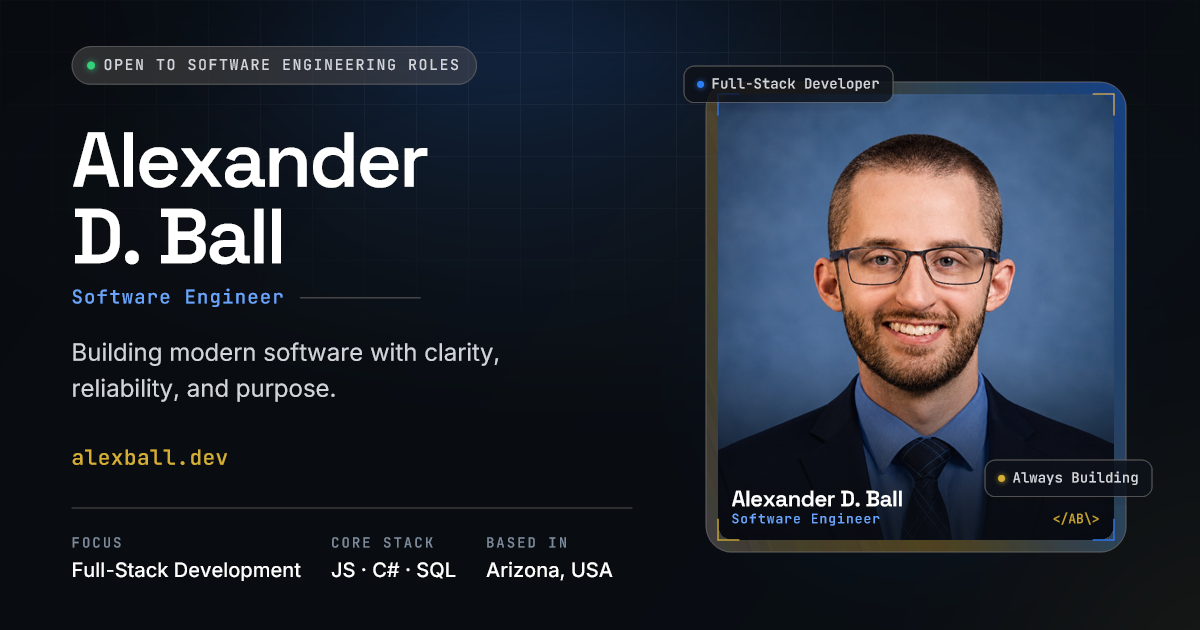
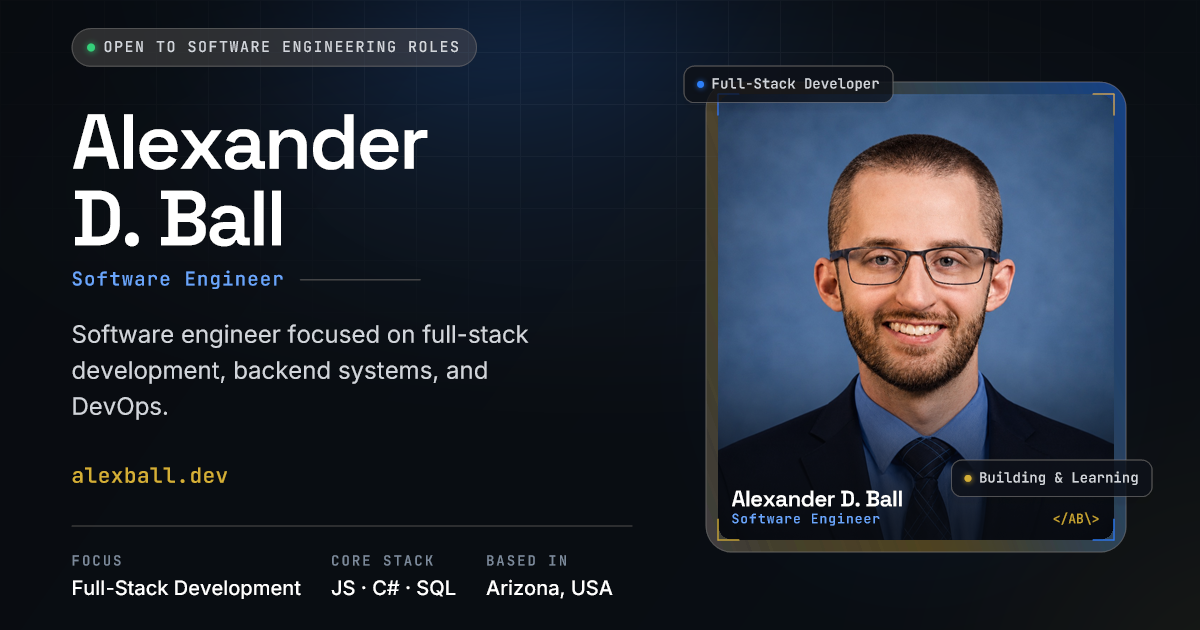
Fix text throught the entire site and wherever text is share related to it

diff --git a/src/data/siteStrings.js b/src/data/siteStrings.js
@@ -9,14 +9,14 @@ export const STR = {
       stack_label: 'Core Stack', stack_val: 'JS · C# · SQL',
       based_label: 'Based In',
       cta_contact: 'Contact Me', cta_projects: 'View Projects',
-      chip1: 'Full-Stack Developer', chip2: 'Always Building',
+      chip1: 'Full-Stack Developer', chip2: 'Building & Learning',
     },
-    snapshot:   { title: 'The fundamentals, at a glance', sub: 'A quick read on where I am — measurable, honest, and growing.' },
-    about:      { title: 'Engineer first — and a few things more', sub: 'The focus is software engineering. The rest is what makes the engineer.' },
+    snapshot:   { title: "Where I'm at right now", sub: 'A quick snapshot of my degree progress, experience, projects, and stack.' },
+    about:      { title: 'A little more about me', sub: 'Software is what I do. These are some of the other things that shape how I work.' },
     stack:      { title: 'Tools I reach for', sub: 'Languages, frameworks, and tools I currently work with.', looking_ahead: 'Looking Ahead', cloud_tools: 'Cloud & Infrastructure Tools' },
     projects: {
-      title: "Three things I'm proud of", sub: 'Selected work that shows how I think, build, and ship. More in the archive below.',
-      live_demo: 'Live Demo', source: 'Source', case_study: 'Case Study',
+      title: "Three things I'm proud of", sub: "A few projects I've built and what I learned from them.",
+      live_demo: 'Live Demo', source: 'Source', case_study: 'Project Details',
       placeholder_badge: 'Placeholder', coming_soon: 'Details coming soon', project_shot: 'project shot',
       placeholder_title: 'Project Title', placeholder_tagline: 'One-line project summary',
       placeholder_desc: 'A short description of the problem this project solves, the approach taken, and the result will go here.',
@@ -24,10 +24,10 @@ export const STR = {
       archive_title: 'Project Archive', all_repos: 'All repositories',
     },
     github: {
-      title: 'Code, consistently', sub: 'Live profile and recent work — credibility you can verify.',
+      title: 'Recent GitHub Activity', sub: 'Recent repositories, contributions, and activity straight from GitHub.',
       follow: 'Follow', updated: 'Updated recently', less: 'Less', more: 'More',
-      blurb: 'Every project on this site links back to source. I believe credibility is something you should be able to verify — not just read.',
-      explore: 'Explore the profile',
+      blurb: 'Want to dig into the code? My projects and recent work are public on GitHub.',
+      explore: 'View GitHub Profile',
       statPublicRepos: 'Public Repos', statStars: 'Stars Earned', statForks: 'Total Forks', statFollowers: 'Followers',
       contributionsCaption: 'contributions in the last 6 months',
       recentActivityTitle: 'Recent Activity',
@@ -38,32 +38,32 @@ export const STR = {
       loading: 'Loading live activity…',
       cellContribution: 'contribution', cellContributions: 'contributions', cellOn: 'on',
     },
-    experience: { title: 'A track record in progress', sub: 'Two parallel paths — professional experience and academic foundation.', career: 'Career', education: 'Education', current: 'Current' },
-    resume:     { title: 'The one-page version', sub: 'Read it here or take it with you.', download: 'Download Resume', open_full: 'Open Full Page' },
+    experience: { title: 'Experience & Education', sub: "My professional software development experience so far, along with the degree I'm currently working on.", career: 'Career', education: 'Education', current: 'Current' },
+    resume:     { title: 'Resume', sub: 'View my current resume here or download a copy.', download: 'Download Resume', open_full: 'Open Full Page' },
     contact: {
-      heading1: "Let's build", heading2: 'something solid.',
-      lead: "I'm actively looking for software engineering roles where I can contribute, learn, and grow. If you're hiring — or just want to talk shop — I'd love to hear from you.",
+      heading1: "Let's talk.", heading2: '',
+      lead: "I'm currently open to software engineering opportunities, especially full-stack, backend, and DevOps-focused roles. If you're hiring, want to talk about my work, or just want to connect, send me a message.",
       email_k: 'Email', linkedin_k: 'LinkedIn', github_k: 'GitHub',
       name: 'Name', email: 'Email', subject: 'Subject', message: 'Message',
-      name_ph: 'John Doe', email_ph: 'johndoe@company.com', subject_ph: "What's this about?",
-      message_ph: "We're hiring a software engineer and your profile caught my eye…",
+      name_ph: 'Your name', email_ph: 'you@example.com', subject_ph: "What's this about?",
+      message_ph: "Tell me a little about what you're reaching out about…",
       err_name: 'Please add your name', err_email_empty: 'Please add an email', err_email_bad: 'That email looks off',
       err_subject: 'Add a short subject', err_message: 'A short note helps',
       err_send: 'Something went wrong. Please try again.',
       send: 'Send Message', sending: 'Sending…', sent_title: 'Message sent', sent_thanks: 'Thanks,',
-      sent_body: "— it's in my inbox. I'll get back to you quickly.", send_another: 'Send another',
-      direct_note: 'Sent straight to my inbox · or write me directly at',
+      sent_body: "! Your message is in my inbox. I'll get back to you as soon as I can.", send_another: 'Send another',
+      direct_note: 'This form goes straight to my inbox. You can also email me directly at',
     },
     footer:  { github: 'GitHub', linkedin: 'LinkedIn', email: 'Email', resume: 'Resume', siteLabel: 'Site', connectLabel: 'Connect' },
     toggles: { theme: 'Theme', light: 'Light', dark: 'Dark', lang: 'Language' },
     pager: {
       descriptions: {
-        home: 'Building modern software with clarity, reliability, and purpose.',
-        about: 'The focus is software engineering. The rest is what makes the engineer.',
-        projects: 'Selected work that shows how I think, build, and ship.',
-        experience: 'Two parallel paths — professional experience and academic foundation.',
-        resume: 'Read it here or take it with you.',
-        contact: "I'm actively looking for software engineering roles where I can contribute, learn, and grow.",
+        home: 'Software engineer focused on full-stack development, backend systems, and DevOps.',
+        about: "More about my background, interests, leadership experience, and what I'm learning.",
+        projects: "Projects I've built, the technologies behind them, and my recent GitHub activity.",
+        experience: 'My professional software development experience and education.',
+        resume: 'View or download my current software engineering resume.',
+        contact: 'Get in touch about software engineering opportunities, projects, or anything else.',
       },
     },
   },
@@ -75,14 +75,14 @@ export const STR = {
       stack_label: 'Stack Principal',  stack_val: 'JS · C# · SQL',
       based_label: 'Ubicación',
       cta_contact: 'Contáctame', cta_projects: 'Ver Proyectos',
-      chip1: 'Desarrollador Full-Stack', chip2: 'Siempre Construyendo',
+      chip1: 'Desarrollador Full-Stack', chip2: 'Construyendo y Aprendiendo',
     },
-    snapshot:   { title: 'Los fundamentos, de un vistazo', sub: 'Una mirada rápida a dónde estoy — medible, honesta y en crecimiento.' },
-    about:      { title: 'Ingeniero primero — y algunas cosas más', sub: 'El enfoque es la ingeniería de software. El resto es lo que forma al ingeniero.' },
+    snapshot:   { title: 'En qué punto estoy', sub: 'Un resumen rápido de mi avance en la carrera, mi experiencia, mis proyectos y mi stack.' },
+    about:      { title: 'Un poco más sobre mí', sub: 'El software es a lo que me dedico. Esto es parte de lo demás que influye en cómo trabajo.' },
     stack:      { title: 'Herramientas que utilizo', sub: 'Lenguajes, frameworks y herramientas con los que trabajo actualmente.', looking_ahead: 'Mirando Hacia Adelante', cloud_tools: 'Herramientas de Nube e Infraestructura' },
     projects: {
-      title: 'Tres cosas de las que estoy orgulloso', sub: 'Trabajo seleccionado que muestra cómo pienso, construyo y entrego. Más en el archivo abajo.',
-      live_demo: 'Demo en Vivo', source: 'Código Fuente', case_study: 'Caso de Estudio',
+      title: 'Tres cosas de las que estoy orgulloso', sub: 'Algunos proyectos que he construido y lo que aprendí de cada uno.',
+      live_demo: 'Demo en Vivo', source: 'Código Fuente', case_study: 'Detalles del Proyecto',
       placeholder_badge: 'Marcador de posición', coming_soon: 'Detalles próximamente', project_shot: 'captura del proyecto',
       placeholder_title: 'Título del Proyecto', placeholder_tagline: 'Resumen del proyecto en una línea',
       placeholder_desc: 'Aquí irá una breve descripción del problema que resuelve este proyecto, el enfoque utilizado y el resultado.',
@@ -90,10 +90,10 @@ export const STR = {
       archive_title: 'Archivo de Proyectos', all_repos: 'Todos los repositorios',
     },
     github: {
-      title: 'Código, constantemente', sub: 'Perfil en vivo y trabajo reciente — credibilidad que puedes verificar.',
+      title: 'Actividad Reciente en GitHub', sub: 'Repositorios, contribuciones y actividad reciente directo desde GitHub.',
       follow: 'Seguir', updated: 'Actualizado recientemente', less: 'Menos', more: 'Más',
-      blurb: 'Cada proyecto en este sitio enlaza de vuelta al código fuente. Creo que la credibilidad es algo que deberías poder verificar — no solo leer.',
-      explore: 'Explorar el perfil',
+      blurb: '¿Quieres ver el código? Mis proyectos y mi trabajo reciente están públicos en GitHub.',
+      explore: 'Ver Perfil de GitHub',
       statPublicRepos: 'Repos Públicos', statStars: 'Estrellas Obtenidas', statForks: 'Forks Totales', statFollowers: 'Seguidores',
       contributionsCaption: 'contribuciones en los últimos 6 meses',
       recentActivityTitle: 'Actividad Reciente',
@@ -104,32 +104,32 @@ export const STR = {
       loading: 'Cargando actividad en vivo…',
       cellContribution: 'contribución', cellContributions: 'contribuciones', cellOn: 'el',
     },
-    experience: { title: 'Un historial en construcción', sub: 'Dos caminos paralelos — experiencia profesional y formación académica.', career: 'Carrera', education: 'Educación', current: 'Actual' },
-    resume:     { title: 'La versión de una página', sub: 'Léelo aquí o llévalo contigo.', download: 'Descargar Currículum', open_full: 'Abrir Página Completa' },
+    experience: { title: 'Experiencia y Educación', sub: 'Mi experiencia profesional en desarrollo de software hasta ahora, junto con la carrera que estoy cursando.', career: 'Carrera', education: 'Educación', current: 'Actual' },
+    resume:     { title: 'Currículum', sub: 'Consulta aquí mi currículum actual o descarga una copia.', download: 'Descargar Currículum', open_full: 'Abrir Página Completa' },
     contact: {
-      heading1: 'Construyamos', heading2: 'algo sólido.',
-      lead: 'Estoy buscando activamente roles de ingeniería de software donde pueda contribuir, aprender y crecer. Si estás contratando — o solo quieres charlar — me encantaría saber de ti.',
+      heading1: 'Hablemos.', heading2: '',
+      lead: 'Estoy abierto a oportunidades en ingeniería de software, sobre todo en roles enfocados en full-stack, backend y DevOps. Si estás contratando, quieres saber más sobre mi trabajo o simplemente conectar, mándame un mensaje.',
       email_k: 'Correo', linkedin_k: 'LinkedIn', github_k: 'GitHub',
       name: 'Nombre', email: 'Correo', subject: 'Asunto', message: 'Mensaje',
-      name_ph: 'Jane Recruiter', email_ph: 'jane@empresa.com', subject_ph: '¿De qué se trata?',
-      message_ph: 'Estamos contratando un ingeniero de software y tu perfil me llamó la atención…',
+      name_ph: 'Tu nombre', email_ph: 'tu@ejemplo.com', subject_ph: '¿De qué se trata?',
+      message_ph: 'Cuéntame un poco sobre el motivo de tu mensaje…',
       err_name: 'Agrega tu nombre', err_email_empty: 'Agrega un correo', err_email_bad: 'Ese correo no se ve bien',
       err_subject: 'Agrega un asunto breve', err_message: 'Una nota breve ayuda',
       err_send: 'Algo salió mal. Inténtalo de nuevo.',
-      send: 'Enviar Mensaje', sending: 'Enviando…', sent_title: 'Mensaje enviado', sent_thanks: 'Gracias,',
-      sent_body: '— ya está en mi bandeja. Te responderé pronto.', send_another: 'Enviar otro',
-      direct_note: 'Llega directo a mi bandeja · o escríbeme directamente a',
+      send: 'Enviar Mensaje', sending: 'Enviando…', sent_title: 'Mensaje enviado', sent_thanks: '¡Gracias,',
+      sent_body: '! Tu mensaje ya llegó a mi bandeja. Te respondo en cuanto pueda.', send_another: 'Enviar otro',
+      direct_note: 'Este formulario llega directo a mi bandeja. También puedes escribirme a',
     },
     footer:  { github: 'GitHub', linkedin: 'LinkedIn', email: 'Correo', resume: 'Currículum', siteLabel: 'Sitio', connectLabel: 'Conecta' },
     toggles: { theme: 'Tema', light: 'Claro', dark: 'Oscuro', lang: 'Idioma' },
     pager: {
       descriptions: {
-        home: 'Construyendo software moderno con claridad, confiabilidad y propósito.',
-        about: 'El enfoque es la ingeniería de software. El resto es lo que forma al ingeniero.',
-        projects: 'Trabajo seleccionado que muestra cómo pienso, construyo y entrego.',
-        experience: 'Dos caminos paralelos — experiencia profesional y formación académica.',
-        resume: 'Léelo aquí o llévalo contigo.',
-        contact: 'Estoy buscando activamente roles de ingeniería de software donde pueda contribuir, aprender y crecer.',
+        home: 'Ingeniero de software enfocado en desarrollo full-stack, sistemas backend y DevOps.',
+        about: 'Más sobre mi trayectoria, mis intereses, mi experiencia de liderazgo y lo que estoy aprendiendo.',
+        projects: 'Proyectos que he construido, las tecnologías detrás de ellos y mi actividad reciente en GitHub.',
+        experience: 'Mi experiencia profesional en desarrollo de software y mi formación académica.',
+        resume: 'Consulta o descarga mi currículum actual de ingeniería de software.',
+        contact: 'Escríbeme sobre oportunidades en ingeniería de software, proyectos o cualquier otra cosa.',
       },
     },
   },

diff --git a/src/data/siteData.js b/src/data/siteData.js
@@ -6,7 +6,7 @@ export const DATA_ALL = {
       name: 'Alexander D. Ball',
       logo: '</Alex-Ball\\>',
       title: 'Software Engineer',
-      statement: 'Building modern software with clarity, reliability, and purpose.',
+      statement: 'Software engineer focused on full-stack development, backend systems, and DevOps.',
       location: 'Arizona, USA',          // TODO: set your city/region
       availability: 'Open to Software Engineering roles',
       email: 'contact@alexball.dev',
@@ -72,23 +72,23 @@ export const DATA_ALL = {
       { t: 'Music Director',         gold: true   },
       { t: 'Public Speaker',         gold: false  },
       { t: 'Meteorology Enthusiast', gold: true   },
-      { t: 'Lifelong Learner',       gold: false  },
+      { t: 'DevOps Enthusiast',      gold: false  },
     ],
     about: [
-      'I build modern software with an emphasis on clarity, reliability, and maintainability. My background blends hands-on engineering with leadership — and I bring the same discipline to code that I bring to directing a team.',
-      'Currently pursuing a B.S. in Computer Science, I care about systems that are well-structured, well-tested, and built to last.',
+      "I'm a software developer working primarily with JavaScript, C#/.NET, and SQL. I enjoy full-stack development, and I'm especially interested in backend systems, DevOps, and the infrastructure behind reliable software.",
+      "I'm currently working toward my B.S. in Software Engineering at Western Governors University. Outside of development, I'm also a music director and public speaker, which has given me a lot of hands-on experience with leadership, communication, and working with people.",
     ],
     differentiators: [
-      { icon: 'music',     t: 'Music leadership',       d: 'Years directing teams — coordination under pressure.' },
-      { icon: 'mic',       t: 'Public speaking',         d: 'Comfortable presenting to technical and non-technical audiences.' },
-      { icon: 'languages', t: 'Multilingual interests',  d: 'Actively studying additional languages.' },
-      { icon: 'globe',     t: 'International experience', d: 'Mission trips and travel across cultures.' },
-      { icon: 'cap',       t: 'Later coursework',        d: 'Planning to study DevOps and cloud infrastructure later in my CS degree.' },
+      { icon: 'music',     t: 'Music Direction',          d: 'Leading musicians has taught me a lot about communication, preparation, and coordinating a team.' },
+      { icon: 'mic',       t: 'Public Speaking',          d: 'Regular public speaking has made me comfortable explaining ideas clearly in front of a room.' },
+      { icon: 'languages', t: 'Languages',                d: 'Native English speaker, actively learning Spanish and Portuguese.' },
+      { icon: 'globe',     t: 'International Experience', d: 'Mission work and travel have given me experience communicating and working across different cultures.' },
+      { icon: 'cap',       t: 'DevOps & Cloud',           d: 'Currently expanding into CI/CD, Linux, containers, cloud infrastructure, and Kubernetes.' },
     ],
     resumeHighlights: [
-      { t: 'Full-stack capability',     d: 'Comfortable across frontend, backend, and relational data.' },
-      { t: 'Strong fundamentals',       d: 'Data structures, algorithms, and clean architecture.' },
-      { t: 'Leadership track record',   d: 'Music direction, public speaking, team coordination.' },
+      { t: 'Production Development',         d: 'JavaScript/jQuery, C#/.NET, and relational databases.' },
+      { t: 'Software Engineering at WGU',    d: 'B.S. in Software Engineering with a Java emphasis, currently in progress.' },
+      { t: 'Leadership & Communication',     d: 'Music direction, public speaking, and team coordination.' },
     ],
   },
 
@@ -97,8 +97,8 @@ export const DATA_ALL = {
       name: 'Alexander D. Ball',
       logo: '</Alex-Ball\\>',
       title: 'Ingeniero de Software',
-      statement: 'Construyendo software moderno con claridad, confiabilidad y propósito.',
-      location: 'Estados Unidos',
+      statement: 'Ingeniero de software enfocado en desarrollo full-stack, sistemas backend y DevOps.',
+      location: 'Arizona, EE. UU.',
       availability: 'Disponible para roles de Ingeniería de Software',
       email: 'contact@alexball.dev',
       linkedin: 'https://www.linkedin.com/in/alexball03/',
@@ -107,7 +107,7 @@ export const DATA_ALL = {
       resume: '/assets/Alexander-Ball-Resume.pdf',
     },
     snapshot: [
-      { icon: 'cap',    value: 50, suffix: '%', label: 'Avance de la Licenciatura', note: 'Ciencias de la Computación' },
+      { icon: 'cap',    value: 50, suffix: '%', label: 'Avance de la Licenciatura', note: 'Ingeniería de Software' },
       { icon: 'code',   value: 1,  suffix: '+', label: 'Años Programando',          note: 'y contando' },
       { icon: 'cube',   value: 12, suffix: '',  label: 'Proyectos Creados',          note: 'y creciendo', gold: true },
       { icon: 'layers', value: 9,  suffix: '',  label: 'Tecnologías Utilizadas',     note: 'stack principal' },
@@ -120,9 +120,9 @@ export const DATA_ALL = {
     ],
     career: [
       {
-        date: '2025 — Presente', role: 'Ingeniero de Software', org: 'Empresa de Ejemplo', current: true,
+        date: 'Marzo 2026 — Presente', role: 'Desarrollador de Software Junior', org: 'ENSYTE Energy Software International', current: true,
         blurb: 'Reemplaza con tu rol de ingeniería actual o más reciente — qué construyes, el stack y el impacto.',
-        tags: ['C#', '.NET', 'SQL Server'],
+        tags: ['HTML', 'CSS', 'JavaScript', 'jQuery', 'Angular', 'C#/.NET', 'Oracle/SQL Server'],
       },
       {
         date: '2024 — 2025', role: 'Desarrollador de Software (Estudiante)', org: 'Organización de Ejemplo',
@@ -137,9 +137,9 @@ export const DATA_ALL = {
     ],
     education: [
       {
-        date: '2024 — Presente', role: 'Licenciatura en Ciencias de la Computación', org: 'Universidad de Ejemplo', current: true,
-        blurb: 'En progreso — 50% completado. Agrega tu concentración y cursos destacados.',
-        tags: ['Algoritmos', 'Bases de Datos', 'Ing. de Software'],
+        date: '2024 — Presente', role: 'Licenciatura en Ingeniería de Software', org: 'Western Governors University', current: true,
+        blurb: 'En curso — ~50% completado. Énfasis en Java.',
+        tags: ['Algoritmos', 'Bases de Datos', 'Ingeniería de Software', 'Desarrollo Web', 'Estructuras de Datos', 'Java'],
       },
       {
         date: '2023', role: 'Asociado / Fundamentos', org: 'Colegio de Ejemplo',
@@ -159,26 +159,27 @@ export const DATA_ALL = {
     ],
     learning: ['Docker', 'CI/CD', 'Azure', 'Linux', 'Kubernetes'],
     roles: [
-      { t: 'Ingeniero de Software', gold: false },
-      { t: 'Director Musical',      gold: true  },
-      { t: 'Orador Público',        gold: false },
-      { t: 'Aprendiz de por Vida',  gold: true  },
+      { t: 'Ingeniero de Software',        gold: false },
+      { t: 'Director Musical',             gold: true  },
+      { t: 'Orador Público',               gold: false },
+      { t: 'Entusiasta de la Meteorología', gold: true  },
+      { t: 'Entusiasta de DevOps',         gold: false },
     ],
     about: [
-      'Construyo software moderno con énfasis en claridad, confiabilidad y mantenibilidad. Mi trayectoria combina ingeniería práctica con liderazgo — y aplico la misma disciplina al código que aplico al dirigir un equipo.',
-      'Actualmente curso una Licenciatura en Ciencias de la Computación, y me importa construir sistemas bien estructurados, bien probados y hechos para durar.',
+      'Soy desarrollador de software y trabajo principalmente con JavaScript, C#/.NET y SQL. Disfruto el desarrollo full-stack, y me interesan especialmente los sistemas backend, DevOps y la infraestructura detrás del software confiable.',
+      'Actualmente estoy cursando mi licenciatura en Ingeniería de Software en Western Governors University. Fuera del desarrollo, también soy director musical y orador, lo cual me ha dado mucha experiencia práctica en liderazgo, comunicación y trabajo en equipo.',
     ],
     differentiators: [
-      { icon: 'music',     t: 'Liderazgo musical',       d: 'Años dirigiendo equipos — coordinación bajo presión.' },
-      { icon: 'mic',       t: 'Oratoria',                 d: 'Cómodo presentando ante audiencias técnicas y no técnicas.' },
-      { icon: 'languages', t: 'Intereses multilingües',   d: 'Estudiando activamente idiomas adicionales.' },
-      { icon: 'globe',     t: 'Experiencia internacional', d: 'Viajes y misiones a través de distintas culturas.' },
-      { icon: 'cap',       t: 'Cursos futuros',           d: 'Planeo estudiar DevOps e infraestructura en la nube más adelante en mi carrera.' },
+      { icon: 'music',     t: 'Dirección Musical',         d: 'Dirigir músicos me ha enseñado mucho sobre comunicación, preparación y coordinar a un equipo.' },
+      { icon: 'mic',       t: 'Oratoria',                  d: 'Hablar en público con frecuencia me ha hecho sentir cómodo explicando ideas con claridad frente a una sala.' },
+      { icon: 'languages', t: 'Idiomas',                   d: 'Hablo inglés como lengua materna y estoy aprendiendo español y portugués.' },
+      { icon: 'globe',     t: 'Experiencia Internacional', d: 'El trabajo misionero y los viajes me han dado experiencia comunicándome y trabajando entre culturas distintas.' },
+      { icon: 'cap',       t: 'DevOps y Cloud',            d: 'Actualmente me estoy adentrando en CI/CD, Linux, contenedores, infraestructura cloud y Kubernetes.' },
     ],
     resumeHighlights: [
-      { t: 'Capacidad full-stack',      d: 'Cómodo en frontend, backend y datos relacionales.' },
-      { t: 'Fundamentos sólidos',       d: 'Estructuras de datos, algoritmos y arquitectura limpia.' },
-      { t: 'Trayectoria de liderazgo',  d: 'Dirección musical, oratoria, coordinación de equipos.' },
+      { t: 'Desarrollo en Producción',      d: 'JavaScript/jQuery, C#/.NET y bases de datos relacionales.' },
+      { t: 'Ingeniería de Software en WGU', d: 'Licenciatura en Ingeniería de Software con énfasis en Java, actualmente en curso.' },
+      { t: 'Liderazgo y Comunicación',      d: 'Dirección musical, oratoria y coordinación de equipos.' },
     ],
   },
 };

diff --git a/index.html b/index.html
@@ -4,7 +4,7 @@
   <meta charset="UTF-8" />
   <meta name="viewport" content="width=device-width, initial-scale=1.0" />
   <title>Alexander D. Ball — Software Engineer</title>
-  <meta name="description" content="Alexander D. Ball — Software Engineer. Building modern software with clarity, reliability, and purpose." />
+  <meta name="description" content="Alexander D. Ball is a software developer in Arizona focused on full-stack development, JavaScript, C#/.NET, SQL, and DevOps." />
 
   <!-- Icons -->
   <link rel="icon" href="/favicon.ico" sizes="any" />
@@ -21,7 +21,7 @@
   <meta property="og:site_name" content="Alexander D. Ball" />
   <meta property="og:url" content="https://alexball.dev/" />
   <meta property="og:title" content="Alexander D. Ball — Software Engineer" />
-  <meta property="og:description" content="Building modern software with clarity, reliability, and purpose." />
+  <meta property="og:description" content="Alexander D. Ball is a software developer in Arizona focused on full-stack development, JavaScript, C#/.NET, SQL, and DevOps." />
   <meta property="og:image" content="https://alexball.dev/assets/og-image.png" />
   <meta property="og:image:secure_url" content="https://alexball.dev/assets/og-image.png" />
   <meta property="og:image:type" content="image/png" />
@@ -33,7 +33,7 @@
   <!-- Social Media -->
   <meta name="twitter:card" content="summary_large_image" />
   <meta name="twitter:title" content="Alexander D. Ball — Software Engineer" />
-  <meta name="twitter:description" content="Building modern software with clarity, reliability, and purpose." />
+  <meta name="twitter:description" content="Alexander D. Ball is a software developer in Arizona focused on full-stack development, JavaScript, C#/.NET, SQL, and DevOps." />
   <meta name="twitter:image" content="https://alexball.dev/assets/og-image.png" />
   <meta name="twitter:image:alt" content="Alexander D. Ball — Software Engineer" />
 

diff --git a/src/components/sections/Contact.jsx b/src/components/sections/Contact.jsx
@@ -78,7 +78,8 @@ export default function Contact() {
               <div className="eyebrow">
                 <span className="idx">08</span><span className="bar" /><span>Contact</span>
               </div>
-              <h2 style={{ marginTop: 18 }}>{T.heading1}<br />{T.heading2}</h2>
+              {/* heading2 is optional — a locale with a one-line heading leaves it empty. */}
+              <h2 style={{ marginTop: 18 }}>{T.heading1}{T.heading2 && <><br />{T.heading2}</>}</h2>
               <p className="lead">{T.lead}</p>
               <div className="contact-channels">
                 {channels.map((c) => (
@@ -100,7 +101,8 @@ export default function Contact() {
                 <div className="form-success" role="status">
                   <span className="ok-ic"><Icon name="check" /></span>
                   <h3 style={{ fontSize: '1.5rem' }}>{T.sent_title}</h3>
-                  <p className="dim">{T.sent_thanks} {sentName} {T.sent_body}</p>
+                  {/* sent_body opens with its own punctuation, so it butts against the name. */}
+                  <p className="dim">{T.sent_thanks} {sentName}{T.sent_body}</p>
                   <button className="btn btn-ghost btn-sm" onClick={reset}>
                     {T.send_another}
                   </button>
